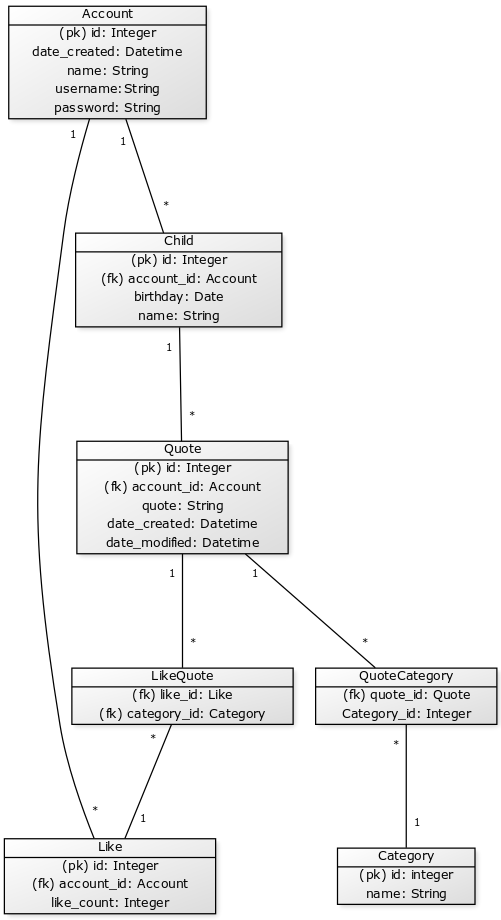
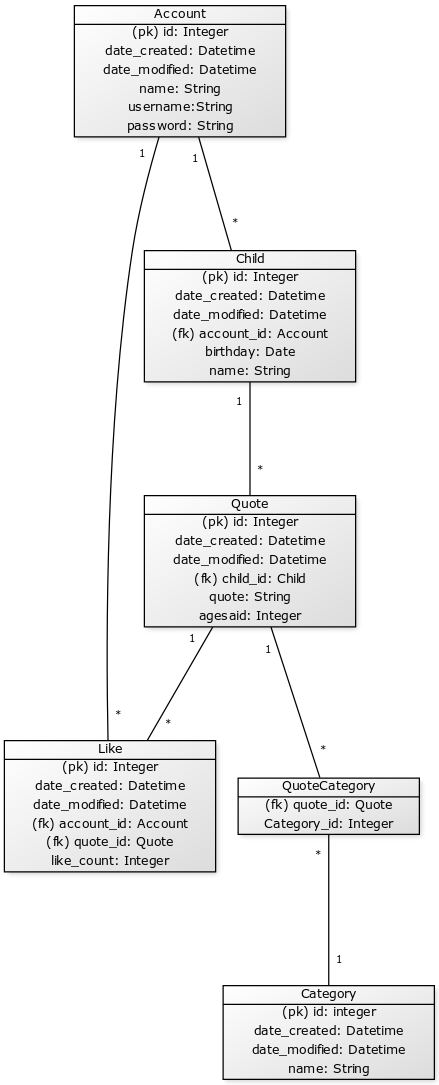
kategorian lisäys, kategoria liitostaulu, toiminto, jossa kun sanonta lisätään täytyy valita väh yksi kategoria, tietokantakaavion muokkaus

diff --git a/application/templates/quotes/new.html b/application/templates/quotes/new.html
@@ -1,16 +1,16 @@
 {% extends "layout.html" %}
-  
+
 {% block body %}
 <form method="POST" action="{{ url_for('quotes_create', child_id = child_id) }}">
   <table>
-  <tr>
-    <td>
-      {{ form.name.label }}
-    </td>
-    <td>
-      {{ form.name }}
-    </td>
-    <td>
+    <tr>
+      <td>
+        {{ form.name.label }}
+      </td>
+      <td>
+        {{ form.name }}
+      </td>
+      <td>
         <ul>
           {% for error in form.name.errors %}
           <li>{{ error }}</li>
@@ -18,23 +18,38 @@
         </ul>
       </td>
       <td>
-          {{ form.age.label }}
-        </td>
-        <td>
-          {{ form.age }}
-        </td>
-        <td>
-            <ul>
-              {% for error in form.age.errors %}
-              <li>{{ error }}</li>
-              {% endfor %}
-            </ul>
-          </td>
+        {{ form.age.label }}
+      </td>
+      <td>
+        {{ form.age }}
+      </td>
+      <td>
+        <ul>
+          {% for error in form.age.errors %}
+          <li>{{ error }}</li>
+          {% endfor %}
+        </ul>
+      </td>
+      <td>
+        <ul class="list-unstyled">
+          <li> {{ form.categories.label }}</li>
+          <li style="color:teal;"> {{ form.categories }}</li>
+        </ul>
+        <ul>
+          {% for error in form.categories.errors %}
+          <li>{{ error }}</li>
+          {% endfor %}
+
+          <p>{{ cate_error }}</p>
+        </ul>
+      </td>
+
+
     </tr>
     <tr>
       <td colspan="2">
-        <input type="submit" value="Lisää sanonta"/>
+        <button type="submit" class="btn btn-success">Lisää sanonta</button>
       </td>
-        </tr>
+    </tr>
 </form>
 {% endblock %}

diff --git a/application/templates/index.html b/application/templates/index.html
@@ -3,7 +3,8 @@
 
 {% block body %}
 
-<img src="https://pixabay.com/get/55e0dc464b57ac14f6da8c7dda6d49214b6ac3e45657744f7c2d7ed493/silhouette-3095150_1280.png" alt="rose" style="width:620px;height:320px;" >
+<img src=”image.jpg” alt=”image”>
+Kuva: Mirka Merikanto
 
 
 <h1>Kids say the darnest things</h1>

diff --git a/application/quotes/views.py b/application/quotes/views.py
@@ -4,6 +4,7 @@ from application.quotes.models import Quote
 from application.quotes.forms import QuoteForm
 from flask_login import login_required
 from application.child.models import Child
+from application.category.models import Category
 
 
 @app.route("/quotes", methods=["GET"])
@@ -24,21 +25,42 @@ def quotes_form(child_id):
     
     return render_template("quotes/new.html", form = QuoteForm(), child_id=child_id)
 
-@app.route("/quotes/<child_id>", methods=["POST", "GET"])
+@app.route("/quotes/new/create/<child_id>", methods=["POST", "GET"])
 @login_required
 def quotes_create(child_id):
     form = QuoteForm(request.form)
 
-    if not form.validate():
-        return render_template("quotes/new.html", form = form)
-
-    q = Quote(form.name.data)
-    q.agesaid = form.age.data
-    q.child_id = child_id
     
 
-    db.session.add(q)
-    db.session().commit()
+
+    #pakko valita vähintään yksi kategoria
+    
+    #if not form.validate or not form.categories.data:
+        #return render_template("quotes/new.html", form=form, cate_error= "Sanonnalle täytyy valita vähintään yksi kategoria")
+
+    if not form.validate() or not form.categories.data:
+        if not form.categories.data:
+            form.categories.errors.append("Sanonnalle täytyy valita vähintään yksi kategoria")
+        return render_template("quotes/new.html", form = form, categories=form.categories.data,child_id=child_id)    
+
+
+
+        
+    q = Quote(quote = form.name.data, agesaid = form.age.data)
+    #q.agesaid = form.age.data
+    q.child_id = child_id
+
+    allcategories=form.categories.data
+
+    for category in  allcategories:
+        category = Category(category) 
+        db.session().add(category)             
+        db.session().commit()
+
+        q.quotecategory.append(category)     
+
+        db.session.add(q)
+        db.session().commit()
   
     return  redirect(url_for("quotes_index"))
 

diff --git a/application/quotes/models.py b/application/quotes/models.py
@@ -3,6 +3,12 @@ from application.models import Base
 
 from sqlalchemy.sql import text
 
+#many to many liitostaulu sanonnan ja kategorian välille
+quotecategory = db.Table('quotecategory',
+    db.Column('quote_id',  db.Integer, db.ForeignKey('quote.id'), primary_key=True),
+    db.Column('category_id', db.Integer, db.ForeignKey('category.id'), primary_key=True)
+)
+
 class Quote(Base):
   
     quote = db.Column(db.String(2000), nullable=False)
@@ -11,8 +17,13 @@ class Quote(Base):
     child_id = db.Column(db.Integer, db.ForeignKey('child.id'),
                            nullable=False)
     
-    def __init__(self, quote):
+    #many to many riippuvuussuhde, määrittely 
+    quotecategory = db.relationship('Category', secondary=quotecategory, lazy='subquery',
+        backref=db.backref('quotes', lazy=True))
+
+    def __init__(self, quote, agesaid):
         self.quote = quote
+        self.agesaid = agesaid
 
     @staticmethod
     def find_child_quotes(child_id):

diff --git a/application/quotes/forms.py b/application/quotes/forms.py
@@ -1,9 +1,14 @@
 from flask_wtf import FlaskForm
-from wtforms import StringField, IntegerField, validators
+from wtforms import StringField, IntegerField, SelectMultipleField, validators, widgets
+
+class SelectBox(SelectMultipleField):
+    widget = widgets.ListWidget(prefix_label=False)
+    option_widget = widgets.CheckboxInput()
 
 class QuoteForm(FlaskForm):
     name = StringField("Sanonta", [validators.Length(min=5)])
     age = IntegerField("Ikä jolloin sanottu")
+    categories = SelectBox('Valitse kategoriat, johon sanonta kuuluu:', choices=[('hauskat', 'hauskat'), ('suhde', 'suhde'), ('kysymykset', 'kysymykset')])
  
     class Meta:
         csrf = False

diff --git a/application/category/models.py b/application/category/models.py
@@ -1,0 +1,14 @@
+from application import db
+from application.models import Base
+from flask_login import current_user
+
+from sqlalchemy.sql import text
+
+class Category(Base):
+  
+    name = db.Column(db.String(20), nullable=False)
+    
+    
+    def __init__(self, name):
+        self.name = name
+        

diff --git a/application/__init__.py b/application/__init__.py
@@ -6,6 +6,7 @@ from flask_sqlalchemy import SQLAlchemy
 import os
 import psycopg2
 
+
 if os.environ.get("HEROKU"):
     app.config["SQLALCHEMY_DATABASE_URI"] = os.environ.get("DATABASE_URL")
 else:

diff --git a/README.md b/README.md
@@ -27,7 +27,7 @@ Toimintojen listaus:
 - top 10 tykätyt haku (kirjautunut käyttäjä)
 
 
-Tietokannassa on 7 tietokantataulua, joista 2 on liitostauluja. 
+Tietokannassa on 6 tietokantataulua, joista 1 on liitostaulu. 
 
 [Tietokantakaavio](https://github.com/millalin/Kids-Say-the-Darndest-Things/blob/master/documentation/tietokantakaavio.png)
 
